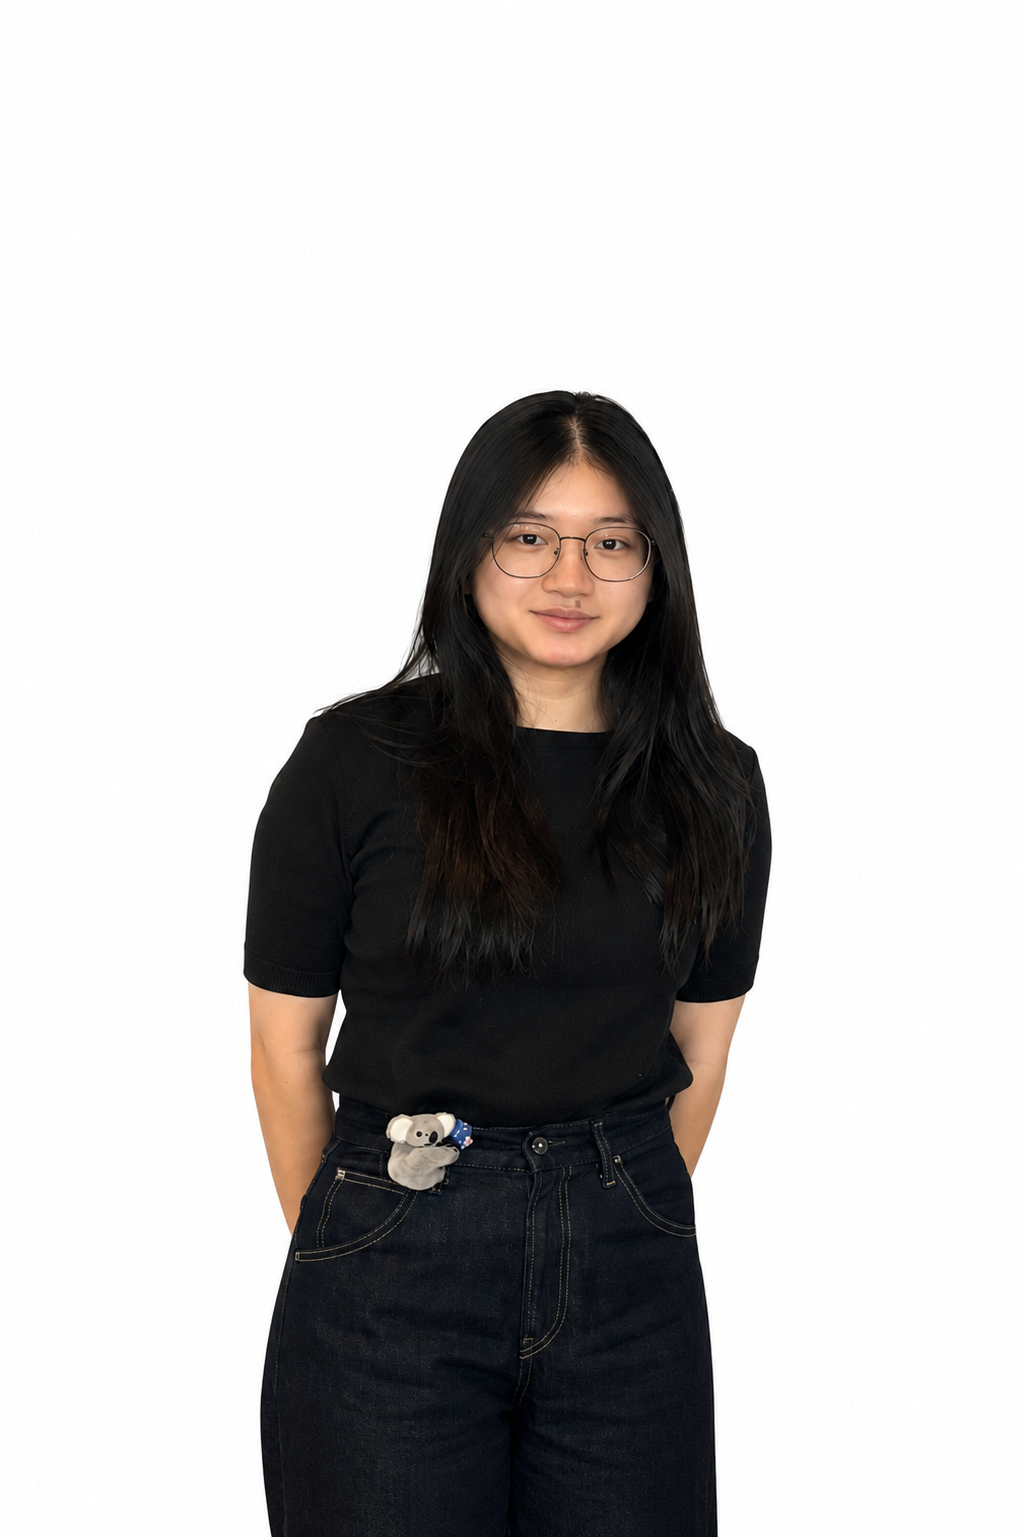
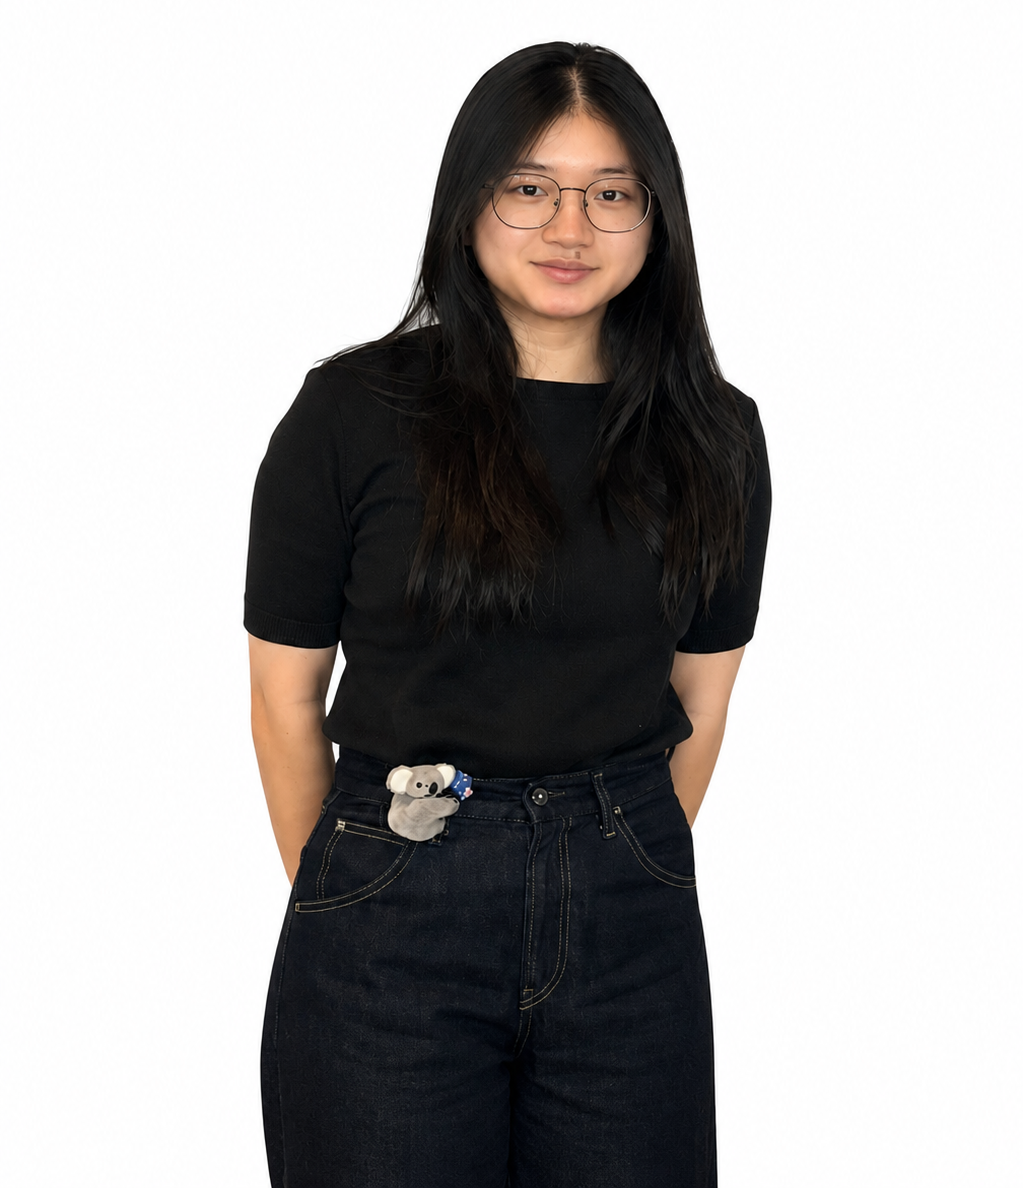
Fix sidebar toggle + crop profile picture

Changed region(s): [[0.2121, 0.0311, 0.7576, 0.9032], [0.5758, 0.654, 0.6364, 0.7163], [0.5152, 0.654, 0.5455, 0.6852]]

diff --git a/style.css b/style.css
@@ -78,7 +78,7 @@ html {
   --color-skill-badge-bg: #6f6d6b;
   --color-skill-badge-border: #a2a2a1;
   --color-divider-project: #7a7a7a;
-  --color-proj-sidebar-toggle-bg: rgba(62, 61, 61, 0.3);
+  --color-proj-sidebar-toggle-bg: rgba(204, 204, 204, 0.754);
   --color-proj-sidebar-toggle-border: #7a7a7a;
   --color-proj-item-text: #ebebeb;
   --color-proj-item-selected-bg: #5f5e5c;
@@ -680,7 +680,8 @@ img {
 #infoWrapperAbout {
   width: min(90%, 45rem);
   max-width: 40rem;
-  height: 55%;
+  height: auto;
+  max-height: 90%;
   top: 46%;
 }
 
@@ -732,7 +733,8 @@ img {
 .info-about {
   position: relative;
   width: 100%;
-  height: 100%;
+  height: auto;
+  max-height: 100%;
   background-color: var(--color-info-about-bg);
   border-radius: 1.5rem;
   overflow: hidden;
@@ -748,6 +750,11 @@ img {
 @media (max-width: 600px) {
   .info-about {
     grid-template-columns: minmax(0, 1fr);
+  }
+
+  .about-photo {
+    width: min(60%, 14rem);
+    margin: 0 auto;
   }
 }
 
@@ -779,6 +786,12 @@ img {
   flex-direction: column;
   gap: 0.5rem;
   box-sizing: border-box;
+}
+
+@media (max-width: 600px) {
+  .info-profile-pic {
+    max-height: 17rem;
+  }
 }
 
 .info-name {
@@ -894,22 +907,26 @@ img {
   top: 50%;
   transform: translateY(-50%);
   height: 90%;
-  left: min(20%, 10rem);
+  left: min(14%, 7rem);
   width: 1px;
   background-color: var(--color-divider-project);
 }
 
 .proj-sidebar-toggle {
+  position: absolute;
+  top: 1rem;
+  right: 1rem;
+  z-index: 5;
   display: flex;
   align-items: center;
   justify-content: center;
-  width: 1.8rem;
-  height: 1.8rem;
+  width: 1.3rem;
+  height: 1.3rem;
   background-color: var(--color-proj-sidebar-toggle-bg);
   border: 1px solid var(--color-proj-sidebar-toggle-border);
-  border-radius: 0.4rem;
+  border-radius: 0.35rem;
   cursor: pointer;
-  padding: 0.3rem;
+  padding: 0.2rem;
   box-sizing: border-box;
   transition: background-color 0.2s ease, transform 0.15s ease, box-shadow 0.15s ease;
 }
@@ -942,7 +959,7 @@ img {
 .proj-list {
   position: absolute;
   left: 1%;
-  right: calc(100% - min(20%, 10rem) + 1%);
+  right: calc(100% - min(14%, 7rem) + 1%);
   top: 2.5rem;
   bottom: 1rem;
   display: flex;
@@ -980,8 +997,8 @@ img {
 
 .proj-gallery {
   position: absolute;
-  left: min(20%, 10rem);
-  width: calc(min(65%, 45rem) - min(20%, 10rem) - 2rem);
+  left: min(16%, 8rem);
+  width: calc(min(65%, 45rem) - min(16%, 8rem) - 2rem);
   top: 2.5rem;
   bottom: 1rem;
   margin-left: 1rem;
@@ -1346,6 +1363,31 @@ img {
   top: 10%;
   right: 3%;
   height: 85%;
+  transition: left 0.6s ease;
+}
+
+@media (max-width: 700px) {
+  .list-of-skills {
+    left: 3%;
+    right: calc(100% - 32%);
+  }
+
+  .divider-skills {
+    left: 36%;
+  }
+
+  .skill-content {
+    left: 40%;
+  }
+}
+
+.info-skills.sidebar-collapsed .list-of-skills,
+.info-skills.sidebar-collapsed .divider-skills {
+  display: none;
+}
+
+.info-skills.sidebar-collapsed .skill-content {
+  left: 3%;
 }
 
 .skill-content-header {
@@ -1354,6 +1396,7 @@ img {
   justify-content: space-between;
   gap: 0.5rem;
   margin-bottom: 0.75rem;
+  margin-right: 2.75rem;
   padding: 0.5rem 0.9rem;
   background-color: var(--color-skill-content-header-bg);
   border-radius: 0.6rem;

diff --git a/script.js b/script.js
@@ -315,7 +315,7 @@ registerFolderToggle('folder3', 'infoWrapperSkills', 'closeSkills');
 /*---About Me: skill badges---*/
 
 function renderAboutSkillsNetwork() {
-  const skills = ['HTML', 'CSS', 'JavaScript', 'Java', 'SQL'];
+  const skills = ['HTML', 'CSS', 'JavaScript', 'Java', 'SQL', 'React'];
 
   const badges = skills.map(name => `
     <span class="skill-badge" data-skill="${name}">${name}</span>
@@ -601,6 +601,14 @@ document.getElementById('closeSkills').addEventListener('click', showDefaultMore
 
 showDefaultMoreTab();
 
+const infoSkills = document.getElementById('info-skills');
+const skillSidebarToggle = document.getElementById('skillSidebarToggle');
+
+skillSidebarToggle.addEventListener('click', (e) => {
+  e.stopPropagation();
+  infoSkills.classList.toggle('sidebar-collapsed');
+});
+
 /*---projects panel---*/
 
 const projItems = document.querySelectorAll('.proj-item');
@@ -623,7 +631,7 @@ const projectData = {
   bharabas: {
     title: 'Bharabas Radio App Prototype',
     desc: 'Designed a high-fidelity mobile app prototype in Figma for Bharabas, a news-focused radio station in Indonesia, as part of the New Colombo Plan Internship (NCP). Collaborated with an international team using Agile methodologies to conduct user research, create wireframes and interactive prototypes, and present a client-focused solution that modernised the radio listening experience.',
-    skills: ['Figma', 'UI/UX Design', 'Wireframing', 'Prototyping', 'User Research', 'Agile', 'Client Communication'],
+    skills: ['Figma', 'UI/UX Design', 'Wireframing', 'Prototyping', 'User Research', 'Agile', 'Client Communication', 'Usability Testing'],
     images: ['bharabas1.png', 'bharabas2.png', 'bharabas3.png', 'bharabas4.png', 'bharabas5.png', 'bharabas6.png', 'bharabas7.png', 'bharabas8.png', 'bharabas9.png', 'bharabas10.png'],
   },
   cashflo: {

diff --git a/index.html b/index.html
@@ -122,6 +122,9 @@
             <div class="divider-project"></div>
             <div class="divider-project2"></div>
             <img src="close.png" alt="close button" class="close" id="closeProject">
+            <button class="proj-sidebar-toggle" id="projSidebarToggle" title="Toggle sidebar">
+                <img src="sidebar.png" alt="Toggle sidebar" class="proj-sidebar-icon">
+            </button>
 
             <div class="proj-list" id="projList">
                 <div class="proj-item selected" data-proj="bharabas">
@@ -147,9 +150,6 @@
                     <img src="bharabas1.png" alt="project image" class="proj-gallery-img" id="projGalleryImg">
                 </div>
                 <div class="proj-gallery-nav">
-                    <button class="proj-sidebar-toggle" id="projSidebarToggle" title="Toggle sidebar">
-                        <img src="sidebar.png" alt="Toggle sidebar" class="proj-sidebar-icon">
-                    </button>
                     <div class="proj-nav-arrows">
                         <button class="proj-nav-btn" id="projPrev">&lt;</button>
                         <button class="proj-nav-btn" id="projNext">&gt;</button>
@@ -180,6 +180,9 @@
     <div class="info-wrapper" id="infoWrapperSkills" style="display: none;">
         <div class="info-skills" id="info-skills">
             <div class="divider-skills"></div>
+            <button class="proj-sidebar-toggle" id="skillSidebarToggle" title="Toggle sidebar">
+                <img src="sidebar.png" alt="Toggle sidebar" class="proj-sidebar-icon">
+            </button>
 
             <div class="list-of-skills" id="listOfSkills">
                 <div class="skill-icon" data-more="experience">
